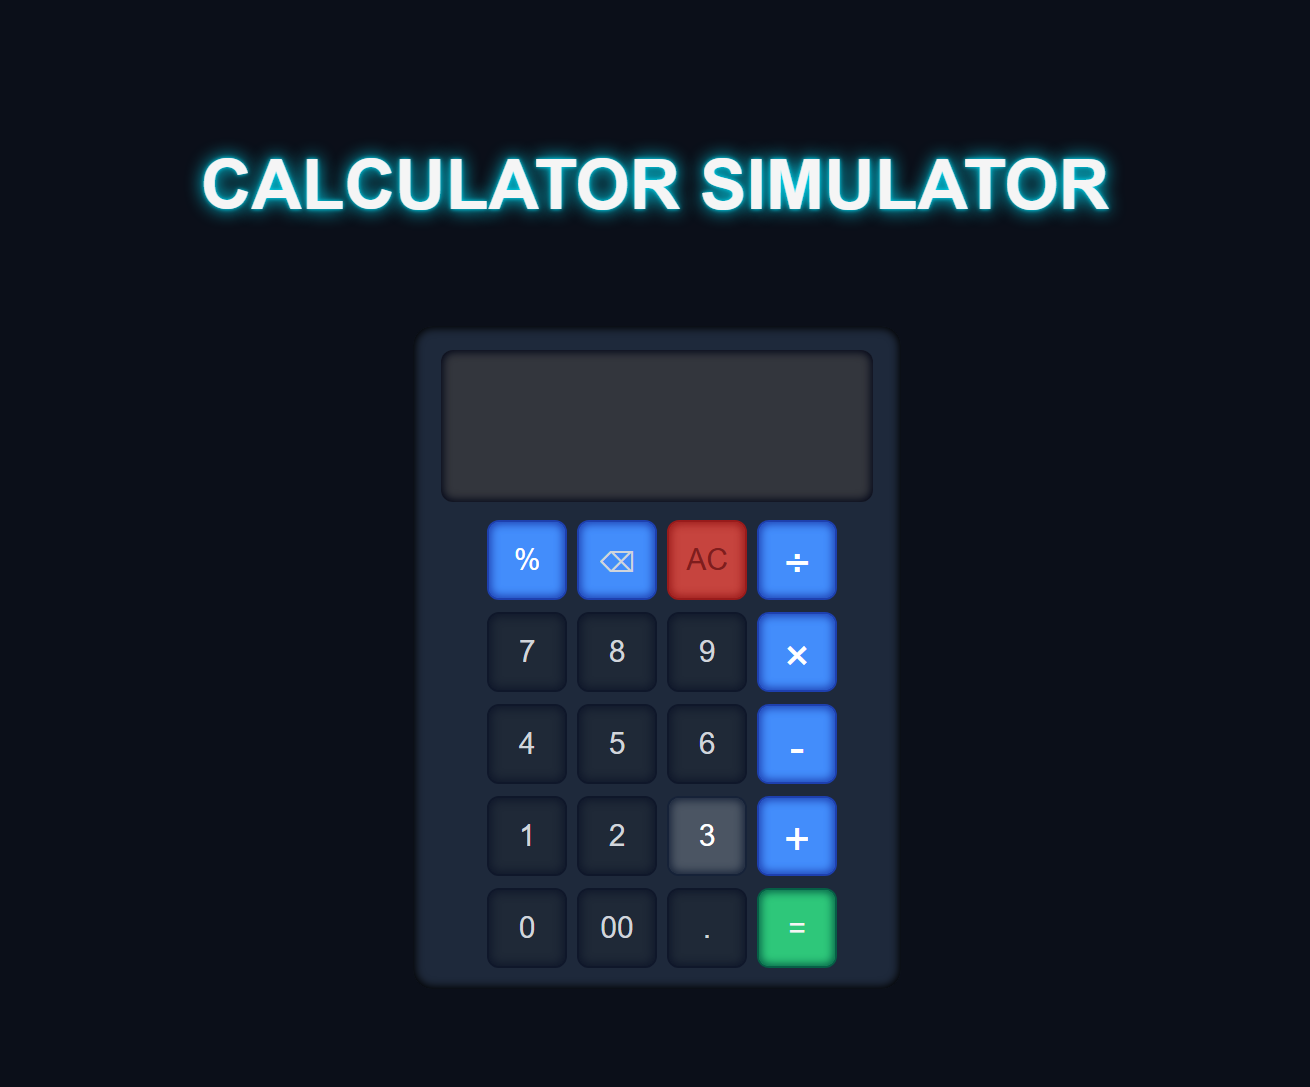
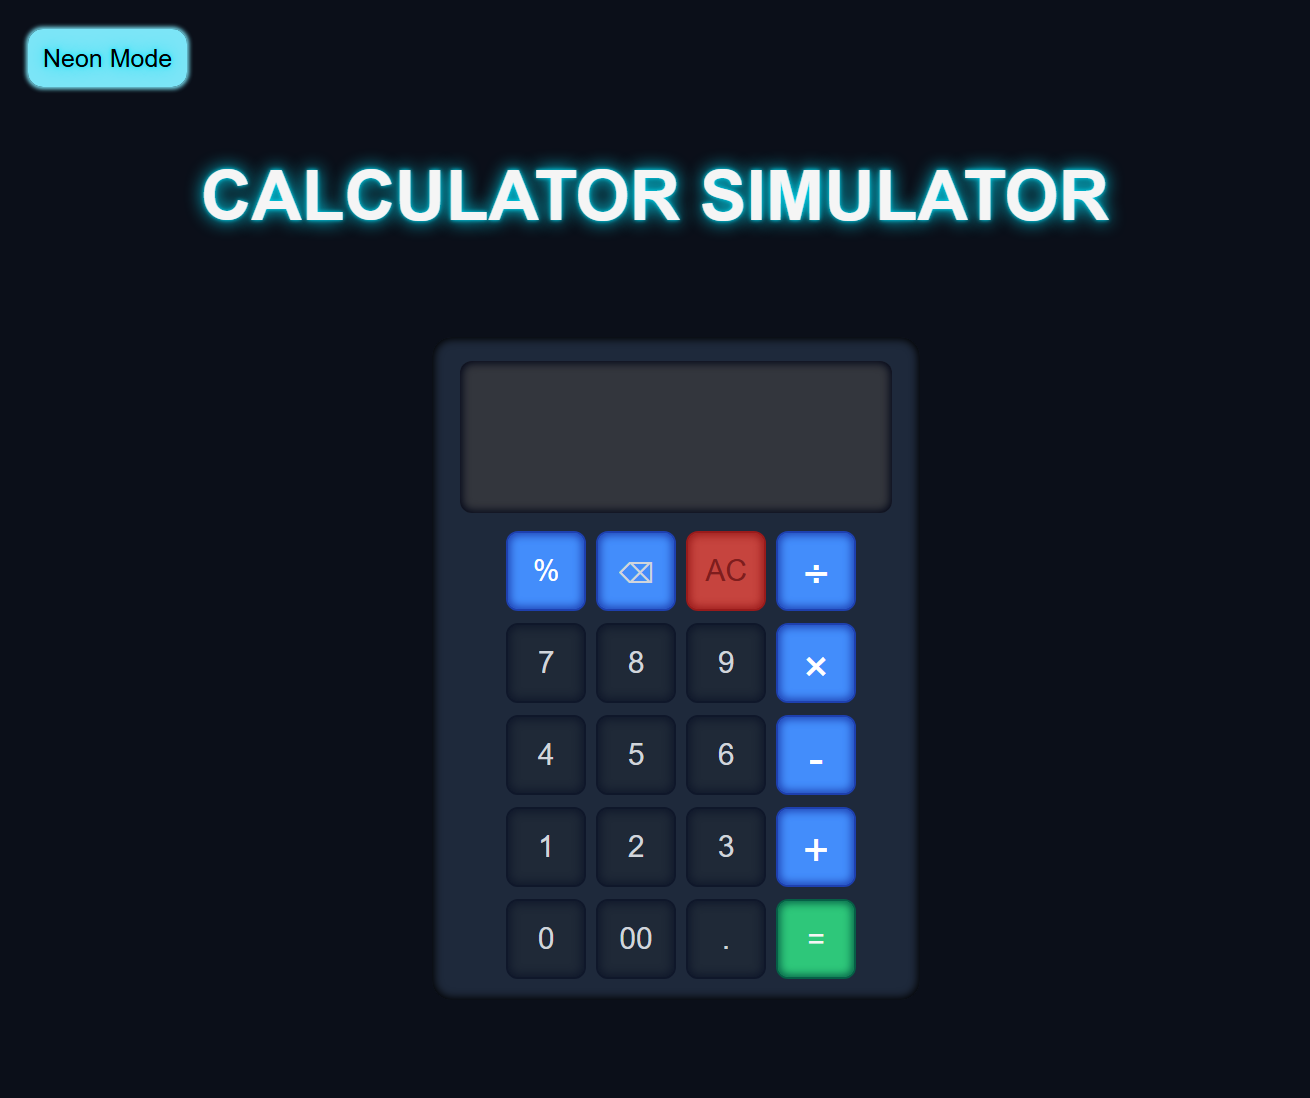
Initial commit - Portfolio

diff --git a/class 11 26.7.26 .html b/class 11 26.7.26 .html
@@ -9,38 +9,38 @@
 <body>
     <form action="class 11 ( 3 ) 26.7.26 .html">
         <div>
-        <img src="images/logo.png" alt="" width="25%" height="10%">
-        <a href="class 11 ( 2 ) 26.7.26 .html" id="btnl" >Home</a>
+        <img src="images/logo.png" alt="logo" width="25%" height="10%" style="margin-left: -100px;">
+        <a href="class 11 ( 2 ) 26.7.26 .html" id="btnl" ><b>Home</b></a>
         </div>
 
-        <h1 class="head1">Trial Class Registration</h1>
+        <h1 class="head1" style="cursor: default;">Trial Class Registration</h1>
         <hr style="width: 180px; color: dimgray;">
 
         <br>
         
-        <h2 style="font-size: 30px;font-weight: 300;">Parent's Info</h2>
+        <h2 style="font-size: 30px;font-weight: 300; cursor: default;">Parent's Info</h2>
         <div class="flex">
             <div class="space">
-                <span>Name</span><br>
+                <span  style="cursor: default;">Name</span><br>
                 <input type="text" class="box1">
             </div>
             <div class="space">
-                <span>Contact No</span><br>
+                <span style="cursor: default;">Contact No</span><br>
                 <input type="number" class="box1" >
             </div>
             <div class="space">
-                <span>Email</span><br>
+                <span style="cursor: default;">Email</span><br>
                 <input type="email" class="box1" >
             </div>
             <div class="space">
-                <span>profession</span><br>
+                <span style="cursor: default;">profession</span><br>
                 <input type="text" class="box1">
             </div>
         </div><br><br>
 
         <div class="flex">
             <div class="space">
-                <span><b> Country </b></span><br>
+                <span style="cursor: default;"><b> Country </b></span><br>
                 <select class="box2">
                     <option>--Choose--</option>
                     <option>Bangladesh</option>
@@ -51,7 +51,7 @@
                 </select>
             </div>
             <div class="space">
-                <span><b> Where did you here from ? </b></span><br>
+                <span style="cursor: default;"><b> Where did you here from ? </b></span><br>
                 <select class="box2">
                     <option>--Choose--</option>
                     <option>Facebook</option>
@@ -65,45 +65,45 @@
         </div><br><br>
 
         <div>
-            <span><b> Do you have a computer/laptop ? </b></span><br><br>
-            <input type="radio">
+            <span style="cursor: default;"><b> Do you have a computer/laptop ? </b></span><br><br>
+            <input type="radio" style="cursor: pointer;">
             <label >Yes</label><br>
-            <input type="radio">
+            <input type="radio" style="cursor: pointer;">
             <label >No</label>
         </div><br><br><hr><br><br>
 
-        <h2 style="font-size: 30px;font-weight: 300;">Child's Info</h2>
+        <h2 style="font-size: 30px;font-weight: 300; cursor: default;">Child's Info</h2>
         <div class="flex">
             <div class="space">
-                <span><b>Name</b></span><br>
+                <span style="cursor: default;"><b>Name</b></span><br>
                 <input type="text" class="box3">
             </div>
             <div class="space">
-                <span><b>Age</b></span><br>
+                <span style="cursor: default;"><b>Age</b></span><br>
                 <input type="number" class="box3">
             </div>
             <div class="space">
-                <span><b>School</b></span><br>
+                <span style="cursor: default;"><b>School</b></span><br>
                 <input type="text" class="box3">
             </div>
         </div><br><br>
         <div>
-            <span><b>Gender</b></span><br><br>
-            <input type="radio">
+            <span style="cursor: default;"><b>Gender</b></span><br><br>
+            <input type="radio" style="cursor: pointer;">
             <label >Female</label><br>
-            <input type="radio">
+            <input type="radio"  style="cursor: pointer;">
             <label >Male</label>
         </div><br><hr><br><br>
         <div>
-            <h1>Time Slots</h1>
-            <div class="note">Note: Due to the high volume of registrations it will be difficult for us ot reschedule. Please choose wisely.</div>
+            <h1 style="cursor: default;">Time Slots</h1>
+            <div class="note" style="cursor: default;">Note: Due to the high volume of registrations it will be difficult for us ot reschedule. Please choose wisely.</div>
         </div><br>
         <div style="text-align: center;" >
-            <button class="regbutton">Register for Trial Class</button>
+            <button class="regbutton" style="cursor: pointer;">Register for Trial Class</button>
         </div><br><br><br>
 
         <div class="copyright">
-            <p> &copy; Copyright <b>Dreamers Academy</b>. All Rights Reserved. </p>
+            <p style="cursor: default;"> &copy; Copyright <b>Dreamers Academy</b>. All Rights Reserved. </p>
         </div>
     </form>
 

diff --git a/class 11 26.7.26 .css b/class 11 26.7.26 .css
@@ -4,7 +4,7 @@ body{
     margin-right: 120px;
     font-family: sans-serif;
     background: url(images/BG.png);
-    background-size: 2140px;
+    background-size: 2160px;
 }
 
 
@@ -14,6 +14,14 @@ body{
     float: right;
     font-size: 20px;
     color: rgb(6, 6, 218);
+
+}
+
+#btnl:hover{
+    text-decoration: none;
+    float: right;
+    font-size: 20px;
+    color: rgb(244, 174, 35);
 
 }
 
@@ -34,36 +42,42 @@ body{
 }
 
 .box1{
+    border: 2px black double;
     height: 25px;
     width: 240px;
     background-color: rgb(176, 178, 180);
 }
 
 .box1:hover{
+    border: 2px black double;
     height: 25px;
     width: 240px;
     background-color: whitesmoke;
 }
 
 .box2{
+    border: 2px black double;
     height: 30px;
     width: 510px;
     background-color: rgb(176, 178, 180);
 }
 
 .box2:hover{
+    border: 2px black double;
     height: 30px;
     width: 510px;
     background-color: whitesmoke;
 }
 
 .box3{
+    border: 2px black double;
     height: 25px;
     width: 346px;
     background-color: rgb(176, 178, 180);
 }
 
 .box3:hover{
+    border: 2px black double;
     height: 25px;
     width: 346px;
     background-color: whitesmoke;
@@ -80,9 +94,10 @@ body{
     background-color: rgb(11, 11, 187);
     color: whitesmoke;
     padding: 10px;
-    border-color: blue groove;
+    border-color: rgb(11, 11, 187);
+    border:2px rgb(11, 11, 187) double;
     border-radius: 12px;
-    width: 170px;
+    width: 200px;
     
     
 }
@@ -93,9 +108,10 @@ body{
     background-color: lightblue;
     color: black;
     padding: 10px;
-    border-color: blue groove;
+    border-color: lightblue;
     border-radius: 12px;
-    width: 170px;
+    border:2px lightblue double;
+    width: 200px;
     
 }
 

diff --git a/portfolio_project.html b/portfolio_project.html
@@ -107,7 +107,7 @@
                 <div class="projects" style="margin-left: 100px;">
                     <img src="images/calculator_image.png" alt="" height="280px" width="300px" style="cursor: default;">
                     <h3 style="cursor: default;">Calculator</h3>
-                    <p style="font-size: 14px; cursor: default;" ><span>A simple calculator made with HTML, CSS and</span><br><span>JavaScript.</span></p>
+                    <p style="font-size: 14px; cursor: default;" ><span>A calculator with two different modes made with </span><br><span>HTML, CSS and JavaScript.</span></p>
                     <br>
                     <select style="width: 220px; padding: 5px; border-radius: 5px; cursor: pointer;">
                         <option >Technology Used</option>
@@ -141,6 +141,7 @@
                         <option>Technology Used</option>
                         <option>HTML</option>
                         <option>CSS</option>
+                        <option>JavaScript</option>
                     </select>
                     <br><br><br>
                     <a href="class 7 project.html" class="view_project_btn" style="cursor: pointer;">View Project</a>
